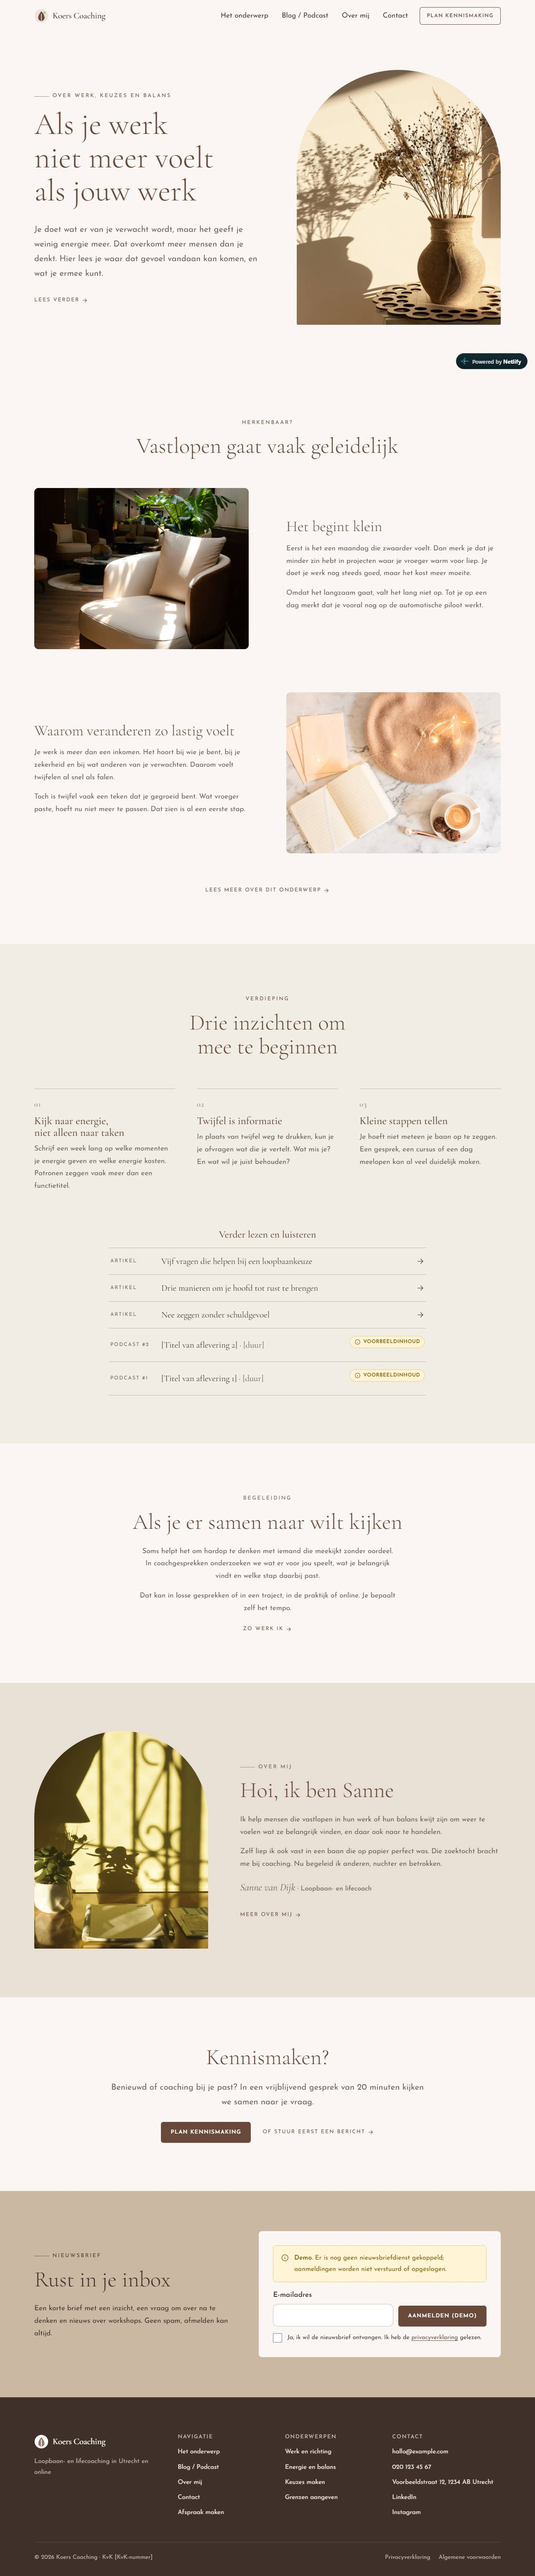
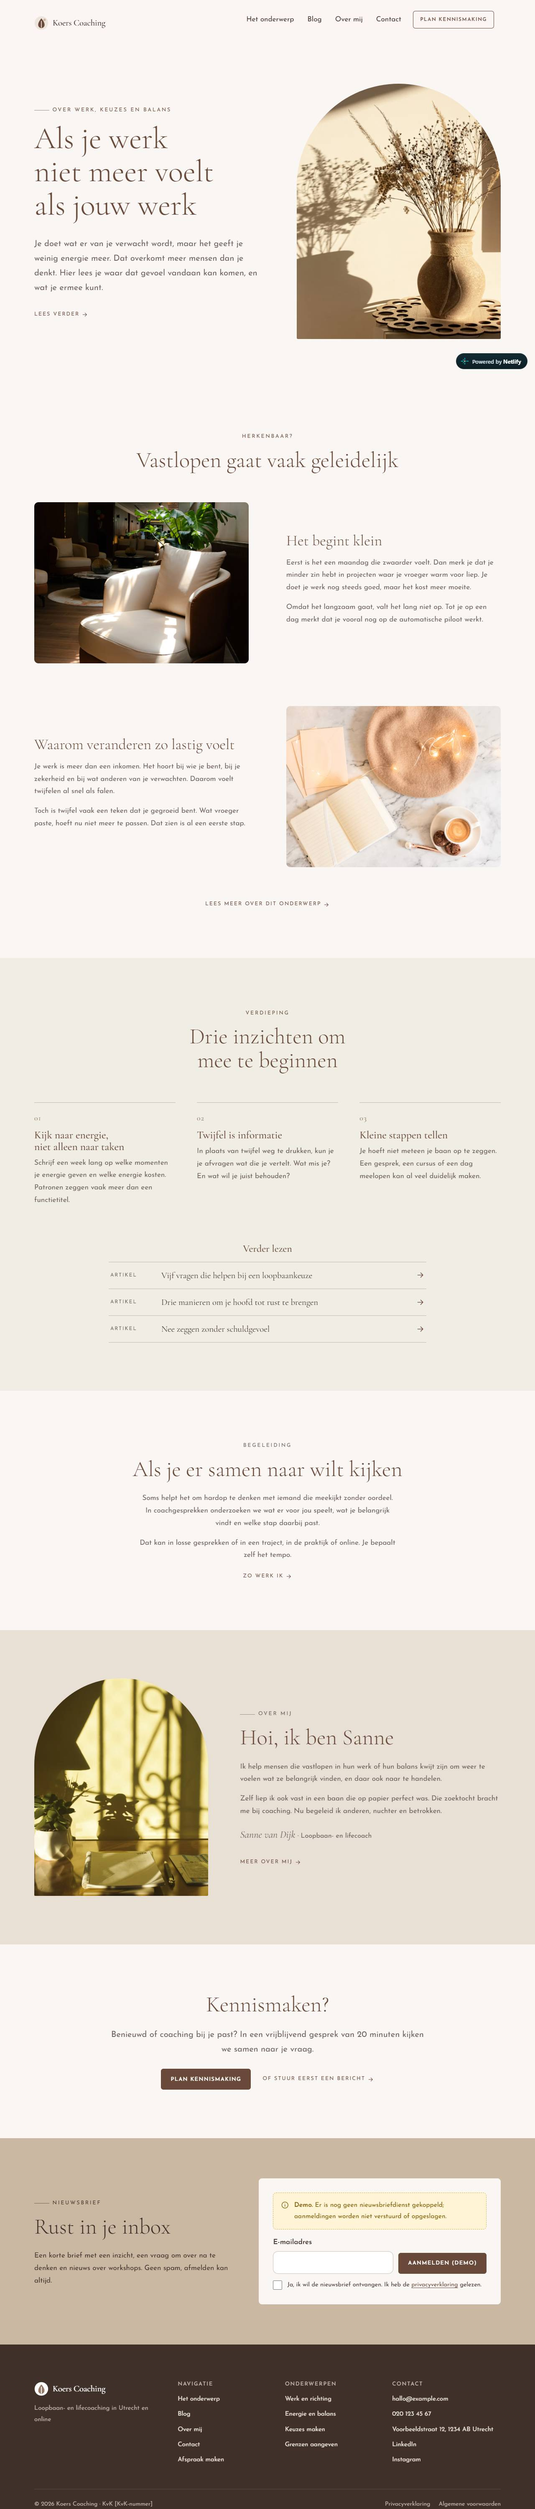
Coachingswebsite: alleen blog, podcast optioneel

diff --git a/assets/js/content.js b/assets/js/content.js
@@ -1407,7 +1407,7 @@ window.SITE_CONTENT = {
           "Persoonlijke introductie",
           "Aanbod en trajecten",
           "Online afspraak maken",
-          "Blog en podcast",
+          "Blog",
           "Nieuwsbrief",
           "Veelgestelde vragen",
           "Contactformulier"
@@ -1418,7 +1418,7 @@ window.SITE_CONTENT = {
           "Personal introduction",
           "Services and programmes",
           "Online booking",
-          "Blog and podcast",
+          "Blog",
           "Newsletter",
           "FAQ",
           "Contact form"
@@ -1429,8 +1429,8 @@ window.SITE_CONTENT = {
         "en": "Show who you are, and make the first step easy."
       },
       "text": {
-        "nl": "Een warme, rustige website voor coaches met zestien pagina's, waarin het onderwerp centraal staat in plaats van de verkoop. De homepage begint bij de vraag van je bezoeker: een herkenbaar verhaal met beeld, bruikbare inzichten met artikelen en podcast, een kort blok over je begeleiding, wie je bent en een rustige uitnodiging om kennis te maken. Verder: een pagina over het onderwerp met deelonderwerpen, Over mij, een overzicht van je aanbod met drie detailpagina's (losse gesprekken, traject en online coaching), Blog / Podcast met artikelpagina, Afspraak maken, Contact, Privacy, Voorwaarden en een 404-pagina. Bezoekers kiezen zelf een gesprekstype, datum en tijd, en melden zich aan voor je nieuwsbrief. Warme, ingetogen stijl met elegante koppen en veel ruimte voor tekst en beeld. Gemaakt voor mobiel, tablet en desktop.",
-        "en": "A warm, calm website for coaches with sixteen pages, centred on the topic rather than on selling. The home page starts with your visitor's question: a relatable story with images, practical insights with articles and podcast, a short section on your guidance, who you are and a calm invitation to meet. Also: a topic page with subtopics, About me, an overview of your services with three detail pages (single sessions, programme and online coaching), Blog / Podcast with article page, Book an appointment, Contact, Privacy, Terms and a 404 page. Visitors choose a session type, date and time themselves and sign up for your newsletter. A warm, understated style with elegant headings and plenty of room for text and images. Built for mobile, tablet and desktop."
+        "nl": "Een warme, rustige website voor coaches met zestien pagina's, waarin het onderwerp centraal staat in plaats van de verkoop. De homepage begint bij de vraag van je bezoeker: een herkenbaar verhaal met beeld, bruikbare inzichten met artikelen uit je blog, een kort blok over je begeleiding, wie je bent en een rustige uitnodiging om kennis te maken. Verder: een pagina over het onderwerp met deelonderwerpen, Over mij, een overzicht van je aanbod met drie detailpagina's (losse gesprekken, traject en online coaching), Blog met artikelpagina (een podcast kun je erbij aanzetten), Afspraak maken, Contact, Privacy, Voorwaarden en een 404-pagina. Bezoekers kiezen zelf een gesprekstype, datum en tijd, en melden zich aan voor je nieuwsbrief. Warme, ingetogen stijl met elegante koppen en veel ruimte voor tekst en beeld. Gemaakt voor mobiel, tablet en desktop.",
+        "en": "A warm, calm website for coaches with sixteen pages, centred on the topic rather than on selling. The home page starts with your visitor's question: a relatable story with images, practical insights with articles from your blog, a short section on your guidance, who you are and a calm invitation to meet. Also: a topic page with subtopics, About me, an overview of your services with three detail pages (single sessions, programme and online coaching), Blog with article page (a podcast can be switched on), Book an appointment, Contact, Privacy, Terms and a 404 page. Visitors choose a session type, date and time themselves and sign up for your newsletter. A warm, understated style with elegant headings and plenty of room for text and images. Built for mobile, tablet and desktop."
       },
       "textSub": {
         "nl": "Zelf starten of hulp bij de inrichting? Kies jouw pakket en bekijk de demo van het fictieve Koers Coaching.",

diff --git a/index.html b/index.html
@@ -31,6 +31,6 @@
   </div>
 
   <script src="assets/js/content.js?v=20261026-bedrijf1"></script>
-  <script src="assets/js/site.js?v=20261028-coaching6"></script>
+  <script src="assets/js/site.js?v=20261029-coaching7"></script>
 </body>
 </html>

diff --git a/pakket.html b/pakket.html
@@ -26,6 +26,6 @@
   </div>
 
   <script src="assets/js/content.js?v=20261026-bedrijf1"></script>
-  <script src="assets/js/site.js?v=20261028-coaching6"></script>
+  <script src="assets/js/site.js?v=20261029-coaching7"></script>
 </body>
 </html>
